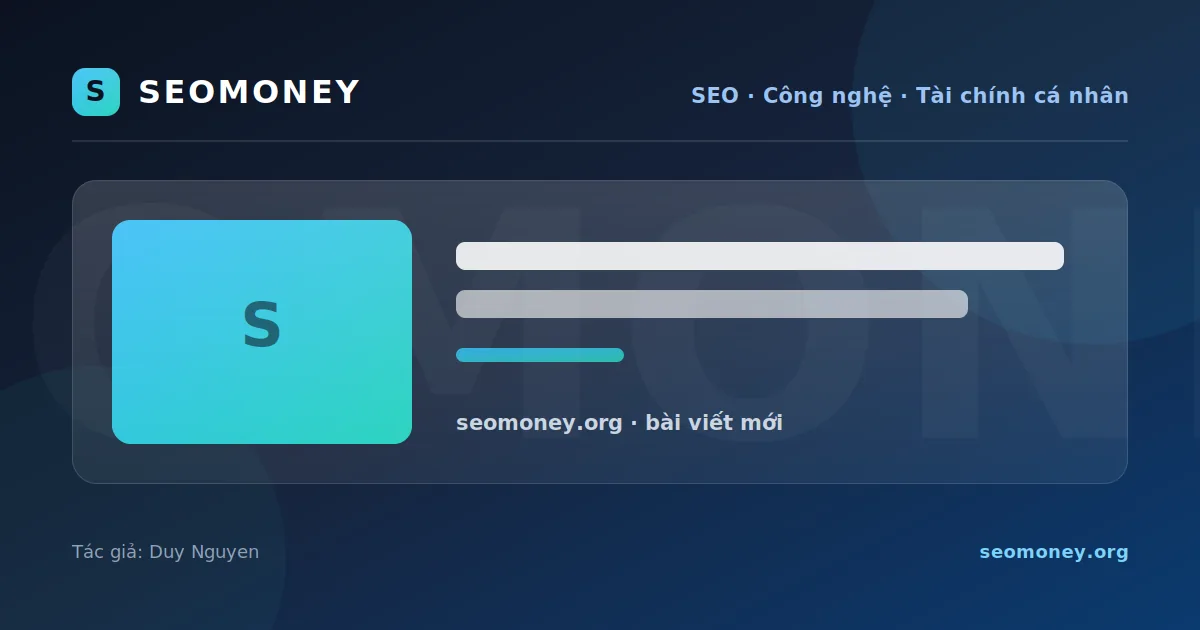
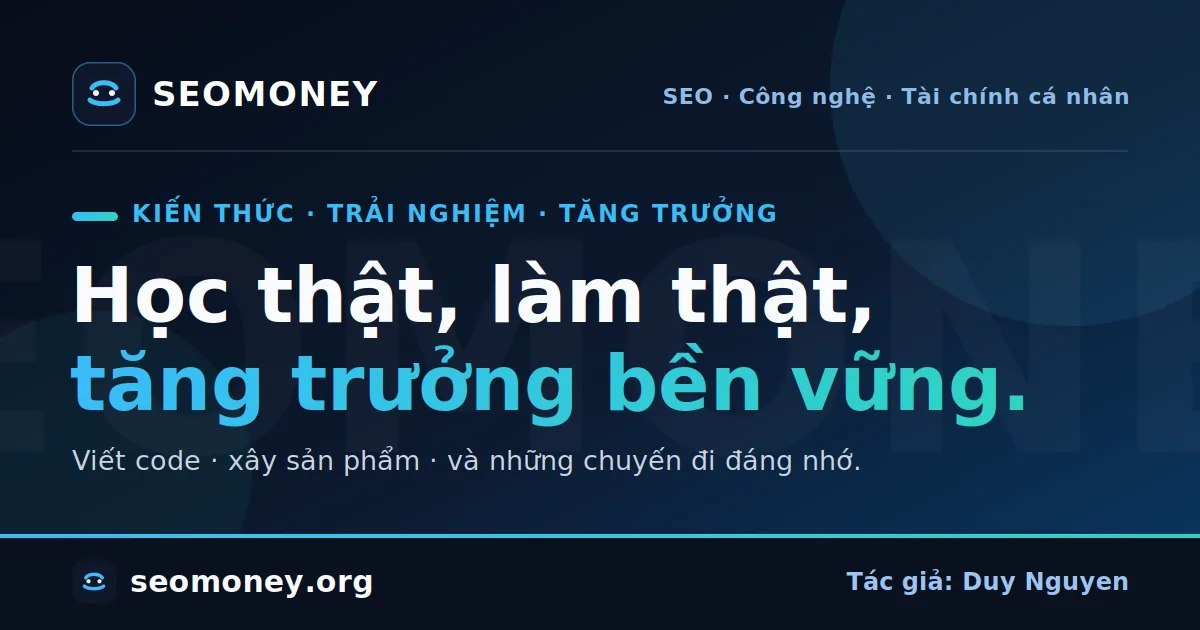
fix(seo): improve social og image preview (#700)
Polish + harden the Open Graph / Twitter card for every blog post so
shares on Facebook/Zalo/Telegram show a clean, S-DNA-style preview that
fetches reliably.

Root cause: social_image_url() forced every cover/placeholder SVG into a
flat /img/og/<name>.og.webp path, but build_og_images.py bakes the twin
NEXT TO the source SVG (/img/covers/<name>.og.webp). So cover-thumbnail
and the ~140 placeholder-thumbnail posts pointed og:image at a 404.

Changes:
- macros/img.html: rewrite social_image_url() to normalize ANY src to an
  absolute HTTPS asset that actually ships — DIR-PRESERVING .svg->.og.webp
  twin, .jpg/.jpeg/.png->.webp (optimize-images deletes rasters), .webp
  passthrough; empty/unknown -> built-in S-DNA default card.
- base.html: resolve og:image by priority (1) first REAL image in the
  article body (page.content, skips /placeholder/ + donate QR), (2)
  extra.og_image/extra.thumbnail if real, (3) section thumbnail, (4) S-DNA
  default. Add og:image:secure_url + og:image:type (image/webp).
- static/img/og/seomoney-og.svg: redesign the fallback card (1200x630,
  dark/cyan S-DNA palette, brand lockup, big readable headline, bottom
  brand bar) and re-render seomoney-og.og.webp; add og-manifest.json so
  the QA OG twin-freshness gate stays deterministic.
- content/posting/fix-qa-gatekeeper-...md: point body/thumbnail images at
  the existing .webp assets (the .jpg were deleted by optimize-images),
  fixing 2 internal 404s.
[…]

diff --git a/templates/base.html b/templates/base.html
@@ -199,26 +199,48 @@
 
     {% set brand_tagline = config.extra.brand_tagline | default(value=config.extra.tagline | default(value="SEO, AI & hệ thống tăng trưởng số")) %}
 
-    {# OG image: social KHÔNG render SVG/CSS → dùng card .webp 1200×630 đã
-       bake bởi scripts/build_og_images.py. Ưu tiên (tất cả đều phải là absolute URL, KHÔNG SVG):
-       1) page.extra.og_image (explicit override)
-       2) page.extra.thumbnail → .og.webp (per-post hero)
-       3) /img/og/{page.slug}.og.webp (generated by build_og_images.py)
-       4) /img/og-default.webp (fallback site-wide) #}
-    {% set og_image_thumb = "" %}
-    {% set og_image_slug = "" %}
-    {% if page and page.extra.og_image %}
-        {% set_global og_image_thumb = page.extra.og_image %}
-    {% elif page and page.extra.thumbnail %}
-        {% set_global og_image_thumb = page.extra.thumbnail %}
-    {% elif section and section.extra.thumbnail %}
-        {% set_global og_image_thumb = section.extra.thumbnail %}
+    {# ===== OG / social image resolution (Facebook · Zalo · Telegram · X) =====
+       Social KHÔNG render SVG/CSS → phải trỏ tới ảnh .webp 1200×630 ĐANG TỒN TẠI
+       trên production. Ưu tiên (img::social_image_url chuẩn hoá → absolute HTTPS .webp):
+         1) ẢNH THẬT đầu tiên trong thân bài (page.content) — bỏ qua /placeholder/
+         2) page.extra.og_image (override) → page.extra.thumbnail (nếu là ảnh thật)
+         3) section.extra.thumbnail (nếu là ảnh thật)
+         4) Card mặc định S-DNA dựng sẵn (/img/og/seomoney-og.og.webp)
+       Ảnh /placeholder/ bị coi là "chưa có ảnh" → rơi xuống card S-DNA cho đẹp,
+       thay vì hiện ảnh placeholder generic khi share. #}
+    {% set_global og_src = "" %}
+    {# 1) ảnh thật đầu tiên trong thân bài đã render #}
+    {% if page and page.content and page.content is containing("<img") %}
+        {% for chunk in page.content | split(pat="<img") %}
+            {% if og_src == "" and not loop.first and chunk is containing('src="') %}
+                {% set cand = chunk | split(pat='src="') | nth(n=1) | split(pat='"') | first %}
+                {# bỏ qua ảnh không-phải-nội-dung: placeholder generic + QR donate (momo) #}
+                {% if cand and not (cand is containing("/placeholder/")) and not (cand is containing("momo-qr")) %}
+                    {% set_global og_src = cand %}
+                {% endif %}
+            {% endif %}
+        {% endfor %}
     {% endif %}
-    {% if page and page.slug %}
-        {% set_global og_image_slug = page.slug %}
+    {# 2-3) override / thumbnail (bỏ qua placeholder → "no real image" rơi xuống default) #}
+    {% set_global og_thumb = "" %}
+    {% if og_src == "" %}
+        {% if page and page.extra.og_image %}
+            {% set_global og_thumb = page.extra.og_image %}
+        {% elif page and page.extra.thumbnail %}
+            {% set_global og_thumb = page.extra.thumbnail %}
+        {% elif section and section.extra.thumbnail %}
+            {% set_global og_thumb = section.extra.thumbnail %}
+        {% endif %}
+        {% if og_thumb and not (og_thumb is containing("/placeholder/")) %}
+            {% set_global og_src = og_thumb %}
+        {% endif %}
     {% endif %}
-    {# OG image fallback: seomoney-og.og.webp (via img::social_image_url macro) #}
-    {% set og_image = img::social_image_url(thumb=og_image_thumb, slug=og_image_slug, base_url=config.base_url) %}
+    {# 4) normalize → absolute HTTPS .webp; rỗng/unknown → card S-DNA mặc định #}
+    {% set_global og_image = img::social_image_url(src=og_src, base_url=config.base_url) | trim %}
+    {% set_global og_image_type = "image/webp" %}
+    {% if og_image is ending_with(".png") %}{% set_global og_image_type = "image/png" %}
+    {% elif og_image is ending_with(".jpg") or og_image is ending_with(".jpeg") %}{% set_global og_image_type = "image/jpeg" %}
+    {% endif %}
 
     <meta name="description" content="{% block description %}{{ page_description }}{% endblock %}">
     <meta name="author" content="{{ config.extra.author }}">
@@ -245,6 +267,8 @@
     <meta property="og:description" content="{{ page_description }}">
     <meta property="og:url" content="{{ canonical_url | safe }}">
     <meta property="og:image" content="{{ og_image | safe }}">
+    <meta property="og:image:secure_url" content="{{ og_image | safe }}">
+    <meta property="og:image:type" content="{{ og_image_type | safe }}">
     <meta property="og:image:width" content="1200">
     <meta property="og:image:height" content="630">
     <meta property="og:image:alt" content="{{ page_title_full }} — {{ config.title }} social preview">

diff --git a/templates/macros/img.html b/templates/macros/img.html
@@ -33,50 +33,40 @@
 {%- endif -%}
 {%- endmacro thumb_src %}
 
-{% macro social_image_url(thumb="", slug="", base_url="") -%}
+{# ----------------------------------------------------------------------------
+   social_image_url(src, base_url) — normalize ANY image reference into an
+   absolute, HTTPS, production-existing URL for og:image / twitter:image.
+
+   Social networks (Facebook, Zalo, Telegram, X…) cannot render SVG/CSS, and the
+   optimize-images pipeline rewrites rasters, so a raw frontmatter/body src often
+   points at a file that no longer ships. This macro maps src → the asset that
+   ACTUALLY exists in production:
+
+   - .svg  → DIR-PRESERVING .og.webp twin baked by scripts/build_og_images.py.
+             Keeps the source folder (/img/covers/x.svg → /img/covers/x.og.webp)
+             so the URL hits the twin that ships — NOT a flat /img/og/ guess.
+   - .jpg/.jpeg/.png → .webp (optimize-images.yml replaces rasters with WebP and
+             DELETES the original; the raster URL would 404 in production).
+   - .webp → kept as-is.
+   - empty / unknown ext → built-in S-DNA default card (seomoney-og.og.webp).
+
+   Output is ALWAYS absolute + HTTPS (http:// and // are upgraded to https://;
+   root-relative paths are prefixed with base_url).
+   ---------------------------------------------------------------------------- #}
+{% macro social_image_url(src="", base_url="") -%}
 {%- set fallback = base_url ~ "/img/og/seomoney-og.og.webp" -%}
-{%- if thumb -%}
-  {%- if thumb is ending_with(".svg") -%}
-    {# SVG → .og.webp (generated by build_og_images.py from build_og_images.py) #}
-    {%- if thumb is starting_with("http://") or thumb is starting_with("https://") -%}
-      {# Absolute SVG URL → extract path and convert to .og.webp (e.g. https://seomoney.org/img/cover/x.svg → /img/og/x.og.webp) #}
-      {%- set svg_path = thumb | split(pat="://") | last | split(pat="/", limit=2) | last -%}
-      {%- set svg_name = svg_path | split(pat="/") | last | replace(from=".svg", to=".og.webp") -%}
-      {{ base_url }}/img/og/{{ svg_name }}
-    {%- else -%}
-      {# Relative SVG path → extract filename and convert to .og.webp #}
-      {{ base_url }}/img/og/{{ thumb | split(pat="/") | last | replace(from=".svg", to=".og.webp") }}
-    {%- endif -%}
-  {%- elif thumb is ending_with(".jpg") or thumb is ending_with(".jpeg") -%}
-    {# JPG/JPEG → .webp #}
-    {%- if thumb is starting_with("http://") or thumb is starting_with("https://") -%}
-      {{ thumb | replace(from=".jpg", to=".webp") | replace(from=".jpeg", to=".webp") }}
-    {%- else -%}
-      {{ base_url }}{{ thumb | replace(from=".jpg", to=".webp") | replace(from=".jpeg", to=".webp") }}
-    {%- endif -%}
-  {%- elif thumb is ending_with(".png") -%}
-    {# PNG → .webp #}
-    {%- if thumb is starting_with("http://") or thumb is starting_with("https://") -%}
-      {{ thumb | replace(from=".png", to=".webp") }}
-    {%- else -%}
-      {{ base_url }}{{ thumb | replace(from=".png", to=".webp") }}
-    {%- endif -%}
-  {%- elif thumb is ending_with(".webp") -%}
-    {# Already .webp (absolute or relative) #}
-    {%- if thumb is starting_with("http://") or thumb is starting_with("https://") -%}
-      {{ thumb }}
-    {%- else -%}
-      {{ base_url }}{{ thumb }}
-    {%- endif -%}
-  {%- else -%}
-    {# Unknown format → fallback #}
-    {{ fallback }}
-  {%- endif -%}
-{%- elif slug -%}
-  {# No explicit thumbnail → try per-post OG image (generated by build_og_images.py) #}
-  {{ base_url }}/img/og/{{ slug }}.og.webp
-{%- else -%}
-  {# Final fallback to default OG image #}
-  {{ fallback }}
+{%- set out = "" -%}
+{%- if src is ending_with(".svg") -%}{%- set out = src | replace(from=".svg", to=".og.webp") -%}
+{%- elif src is ending_with(".jpg") -%}{%- set out = src | replace(from=".jpg", to=".webp") -%}
+{%- elif src is ending_with(".jpeg") -%}{%- set out = src | replace(from=".jpeg", to=".webp") -%}
+{%- elif src is ending_with(".png") -%}{%- set out = src | replace(from=".png", to=".webp") -%}
+{%- elif src is ending_with(".webp") -%}{%- set out = src -%}
+{%- endif -%}
+{%- if not out -%}{{ fallback }}
+{%- elif out is starting_with("https://") -%}{{ out }}
+{%- elif out is starting_with("http://") -%}{{ out | replace(from="http://", to="https://") }}
+{%- elif out is starting_with("//") -%}{{ "https:" ~ out }}
+{%- elif out is starting_with("/") -%}{{ base_url ~ out }}
+{%- else -%}{{ base_url ~ "/" ~ out }}
 {%- endif -%}
 {%- endmacro social_image_url %}

diff --git a/content/posting/fix-qa-gatekeeper-github-actions-merge-conflict-zola.md b/content/posting/fix-qa-gatekeeper-github-actions-merge-conflict-zola.md
@@ -9,7 +9,7 @@ categories = ["Tất cả", "Công nghệ"]
 tags = ["github actions", "qa gatekeeper", "ci cd", "zola", "debug", "merge conflict", "regression test"]
 
 [extra]
-thumbnail = "/img/posting/fix-qa-gatekeeper-github-actions-merge-conflict-zola/cover.jpg"
+thumbnail = "/img/posting/fix-qa-gatekeeper-github-actions-merge-conflict-zola/cover.webp"
 seo_keyword = "fix QA Gatekeeper GitHub Actions"
 featured = false
 +++
